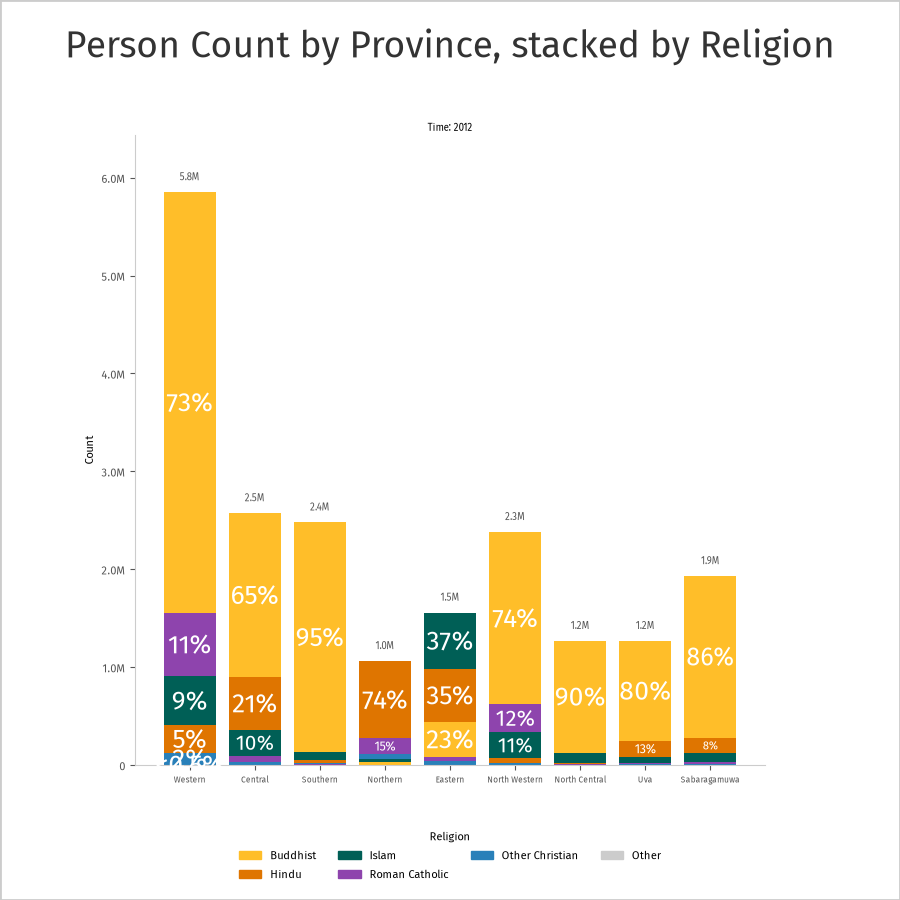
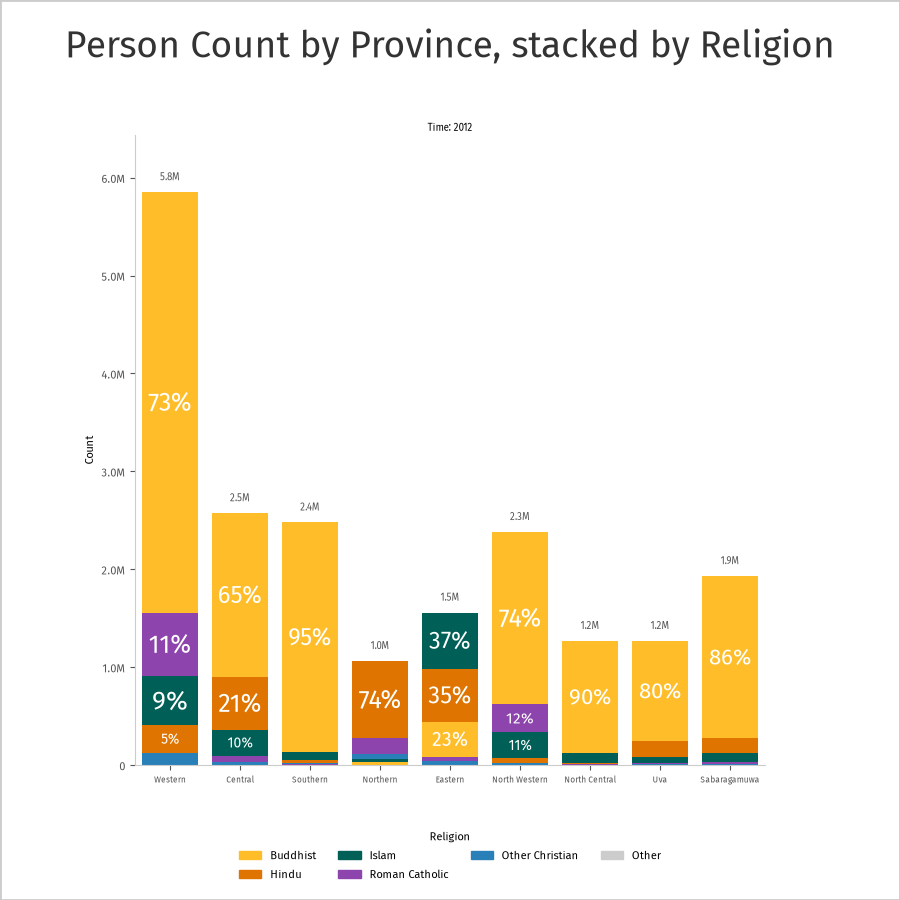
Enhance StackedBarChart and Visual: adjust axis limits and improve stack label font size handling

Changed region(s): [[0.1556, 0.1867, 0.84, 0.8711], [0.56, 0.56, 0.5911, 0.5911]]

diff --git a/src/ds/visual/Visual.py b/src/ds/visual/Visual.py
@@ -32,9 +32,11 @@ class Visual(ABC):
     DIR_FONTS = os.path.join("media", "fonts", "Fira_Sans")
     FONT_FAMILY = "Fira Sans"
     FONT_SIZE = 8
-    MIN_STACK_LABEL_FONTSIZE = 6
+    MIN_STACK_LABEL_FONTSIZE = 8
     MAX_STACK_LABEL_FONTSIZE = 20
     STACK_LABEL_FONT_REDUCTION = 1
+    STACK_LABEL_MIN_DIM_RATIO = 0.55
+    STACK_LABEL_BBOX_MARGIN = 0.75
 
     def __init__(self, datumset, *params):
         self.datumset = datumset
@@ -389,6 +391,12 @@ class Visual(ABC):
         px1, py1 = sub_ax.transData.transform((x1, y1))
         return abs(px1 - px0), abs(py1 - py0)
 
+    def _get_rect_fontsize_cap(self, sub_ax, rect):
+        max_width_px, max_height_px = self._get_rect_size_px(sub_ax, rect)
+        min_dim_px = min(max_width_px, max_height_px)
+        px_to_pt = 72.0 / sub_ax.figure.dpi
+        return int(min_dim_px * px_to_pt * self.STACK_LABEL_MIN_DIM_RATIO)
+
     def _get_best_rect_label_fontsize(self, sub_ax, rect, label):
         fig = sub_ax.figure
         fig.canvas.draw()
@@ -396,14 +404,19 @@ class Visual(ABC):
         cx = rect.get_x() + rect.get_width() / 2.0
         cy = rect.get_y() + rect.get_height() / 2.0
         max_width_px, max_height_px = self._get_rect_size_px(sub_ax, rect)
+        fontsize_cap = self._get_rect_fontsize_cap(sub_ax, rect)
+        if fontsize_cap < self.MIN_STACK_LABEL_FONTSIZE:
+            return 0
         probe = sub_ax.text(cx, cy, label, ha="center", va="center")
         best_fontsize = 0
-        for fontsize in range(self.MAX_STACK_LABEL_FONTSIZE, 3, -1):
+        max_fontsize = min(self.MAX_STACK_LABEL_FONTSIZE, fontsize_cap)
+        for fontsize in range(max_fontsize, 3, -1):
             probe.set_fontsize(fontsize)
             bbox = probe.get_window_extent(renderer=renderer)
             if (
-                bbox.width <= max_width_px * 0.9
-                and bbox.height <= max_height_px * 0.9
+                bbox.width <= max_width_px * self.STACK_LABEL_BBOX_MARGIN
+                and bbox.height
+                <= max_height_px * self.STACK_LABEL_BBOX_MARGIN
             ):
                 best_fontsize = fontsize
                 break

diff --git a/src/ds/visual/StackedBarChart.py b/src/ds/visual/StackedBarChart.py
@@ -115,6 +115,8 @@ class StackedBarChart(Visual):
         x_labels, stack_labels, data = self._get_data(sub_datumset)
         x_values = list(range(len(x_labels)))
         totals = self._get_totals(x_labels, data)
+        sub_ax.set_xlim(-0.5, len(x_labels) - 0.5)
+        sub_ax.set_ylim(0, y_limit)
         for x_value, x_label, total in zip(x_values, x_labels, totals):
             self._plot_stack_for_x(
                 sub_ax,
